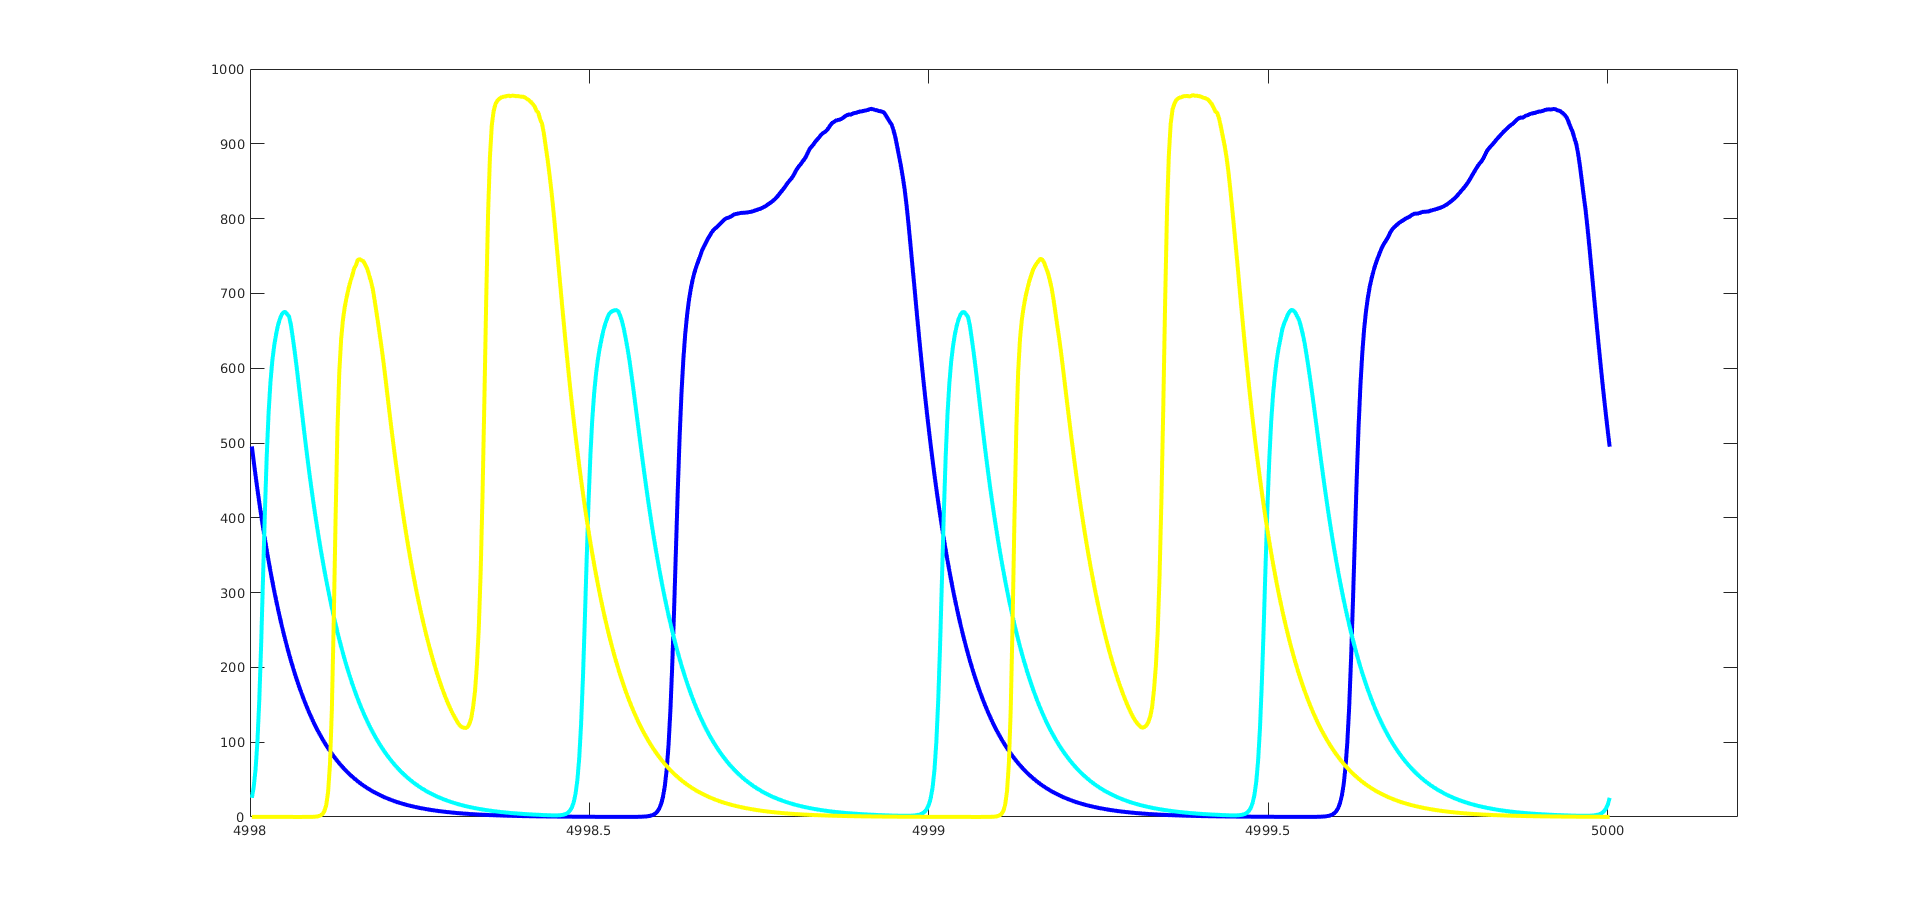
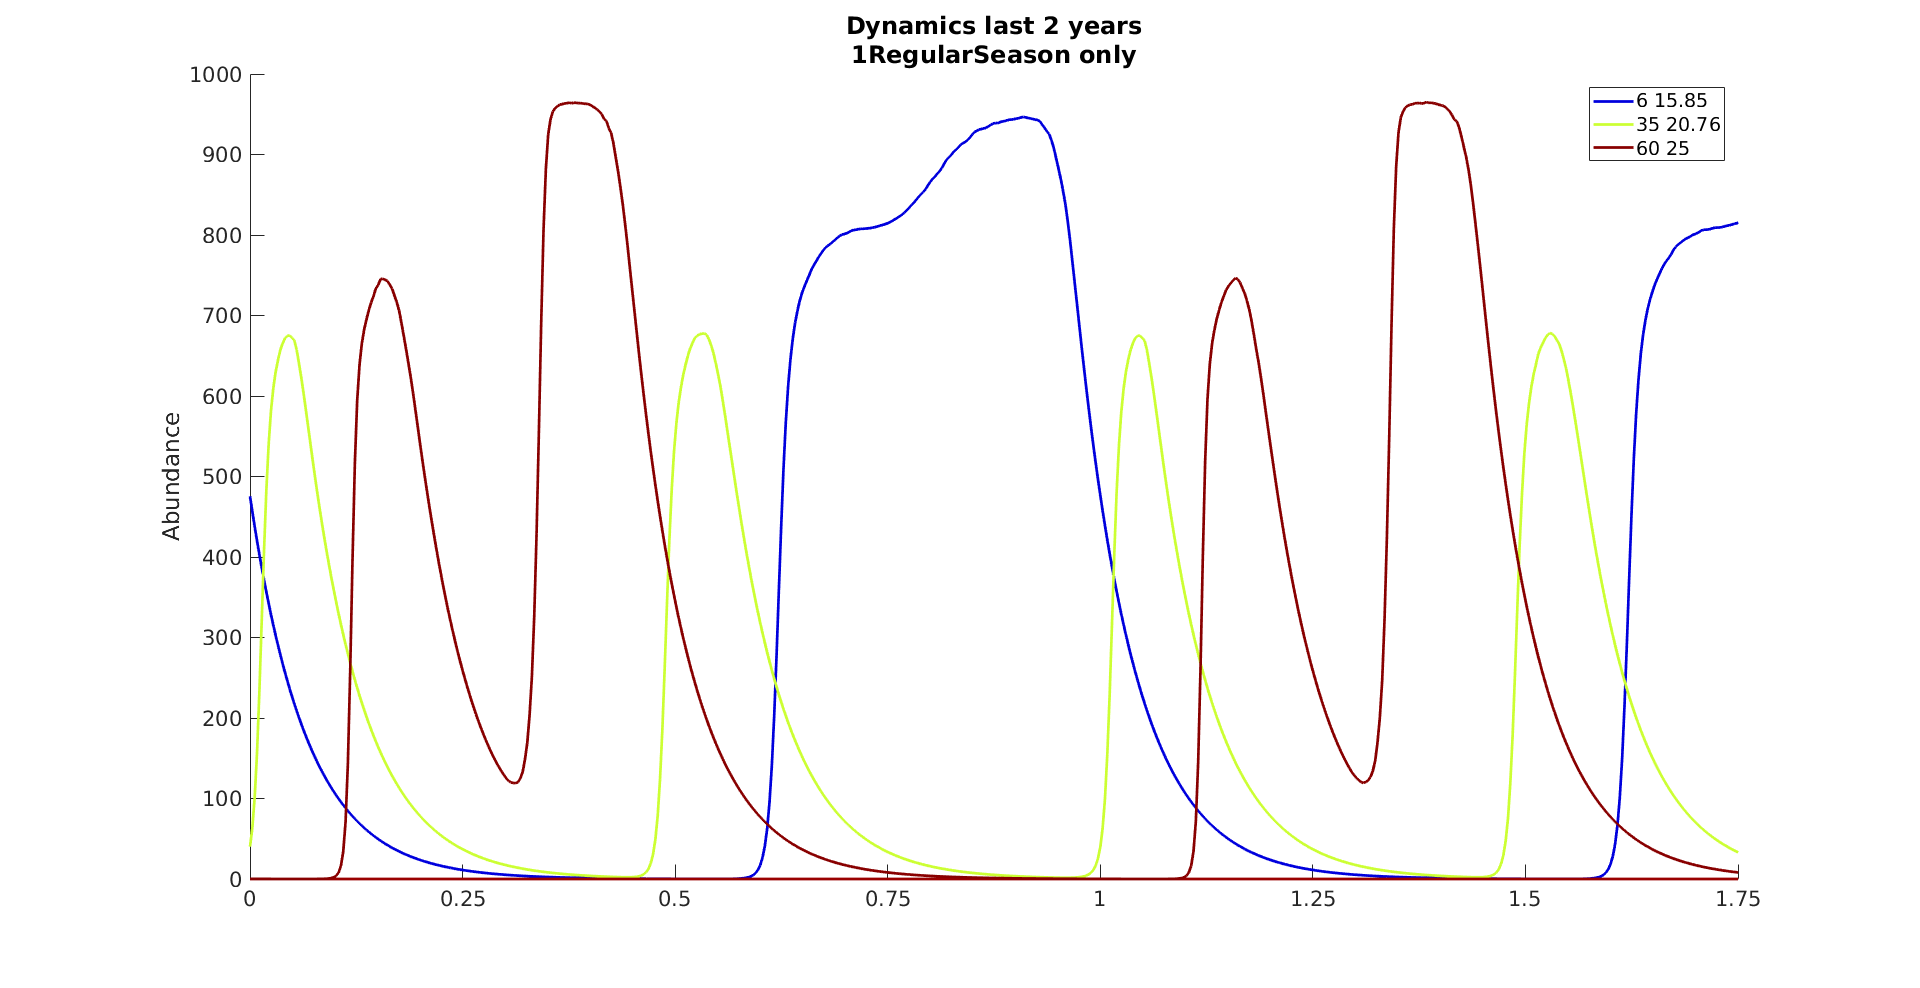
Updated report with cleaner figure and improved the diagnostic plots

diff --git a/script/diagnostics_simulation.m b/script/diagnostics_simulation.m
@@ -29,10 +29,12 @@ fun=@(x,b,tau_opt) growth_response(x).*frac_max(x,tau_opt,b);
 
 
 X=1;
-type='Ashby_formulation';
-nice_type='Ashby';
-addenda=''; %Here, we can add if we're using no_forced_competition, or theta
-filename=strcat('./output_simulation/SV_same_temp/iter',num2str(X),'_codeversion_20180228_theta0_',type)
+%type='Ashby_formulation';
+type='no_stochasticity';
+nice_type='Regular';
+addenda='Season only'; %Here, we can add if we're using no_forced_competition, or theta
+%filename=strcat('./output_simulation/SV_same_temp/iter',num2str(X),'_codeversion_20180228_theta0_',type,'.mat')
+filename=strcat('./output_simulation/season/',num2str(X),type,'.mat')
 
 load(filename)
 S=size(youtbis,2);
@@ -42,7 +44,6 @@ switch nice_type
             for j=1:S
                 A(i,j)= alpha_compet*10*integral(@(x)fun(x,b(i),tau_opt(i)).*fun(x,b(j),tau_opt(j)),10+273,30+273)/integral(@(x)(fun(x,b(i),tau_opt(i))).^2,10+273,30+273);
             end;
-        
         end
     case 'Regular'
         A=ones(S)*alpha_compet;
@@ -77,8 +78,13 @@ yspan=150;
 ymin=size(youtbis,1)-2*365+1;
 ymax=size(youtbis,1);
 figure; hold on;
+sp=0
 for s1=1:S
-    plot(ymin:ymax,youtbis(ymin:ymax,s1),'LineWidth',2,'color',c(s1,:));
+    if youtbis(end,s1)<thresh_min 
+       plot(ymin:ymax,youtbis(ymin:ymax,s1),'LineWidth',2,'color',c(s1,:), 'HandleVisibility','off');
+    else
+        plot(ymin:ymax,youtbis(ymin:ymax,s1),'LineWidth',2,'color',c(s1,:), 'DisplayName', strcat(num2str(s1),32,num2str(round(tau_opt(s1)-273,2))),'HandleVisibility','on'); %32 is the ASCII code for space
+    end    
 end;
 seq=ymin/365:0.25:ymax/365;
 xticks(seq*365);
@@ -86,6 +92,7 @@ xticklabels(round(seq,2)-round(seq(1),2));
 xlim([seq(1)*365 seq(end)*365])
 ylabel('Abundance')
 set(gca,'Fontsize',16)
+legend show
 title({'Dynamics last 2 years',strcat(num2str(X),nice_type,addenda)},'Fontsize',18)
 hold off;
 
@@ -96,7 +103,9 @@ for s1=1:S
     bar(tau_opt(s1)-273,mean_value(s1),0.1,'FaceColor',c(s1,:));
 end;
 ylabel('Abundance')
-set(gca,'yscale','log','Fontsize',16)
+mini=min(mean_value(mean_value>0));
+ylimit=[mini*0.95 max(mean_value)+0.05*mini]; 
+set(gca,'yscale','log','Fontsize',16,'YLim',ylimit)
 title({'Mean biomass',strcat(num2str(X),nice_type,addenda)},'Fontsize',18)
 hold off;
 
@@ -109,11 +118,16 @@ set(gca,'Fontsize',16)
 spp_synchrony=species_specific_synchrony(youtbis,yspan,ywindow,A); %Here, I'll need to add the community matrix
 figure; hold on;
 for s1=1:S
-    plot(1:size(spp_synchrony,1),spp_synchrony(:,s1),'color',c(s1,:));
+    if youtbis(end,s1)<thresh_min 
+        plot(1:size(spp_synchrony,1),spp_synchrony(:,s1),'color',c(s1,:), 'HandleVisibility','off');
+    else
+        plot(1:size(spp_synchrony,1),spp_synchrony(:,s1),'color',c(s1,:), 'HandleVisibility','on','DisplayName', strcat(num2str(s1),32,num2str(round(tau_opt(s1)-273,2))),'LineWidth',2);
+    end
 end
 line(get(gca,'XLim'),[0 0],'Color','k','LineWidth',1.5)
 title({'Species-specific synchrony',strcat(num2str(X),nice_type,addenda)},'Fontsize',18)
 set(gca,'Fontsize',16)
+legend show
 hold off;
 
 %Community-wide synchrony
